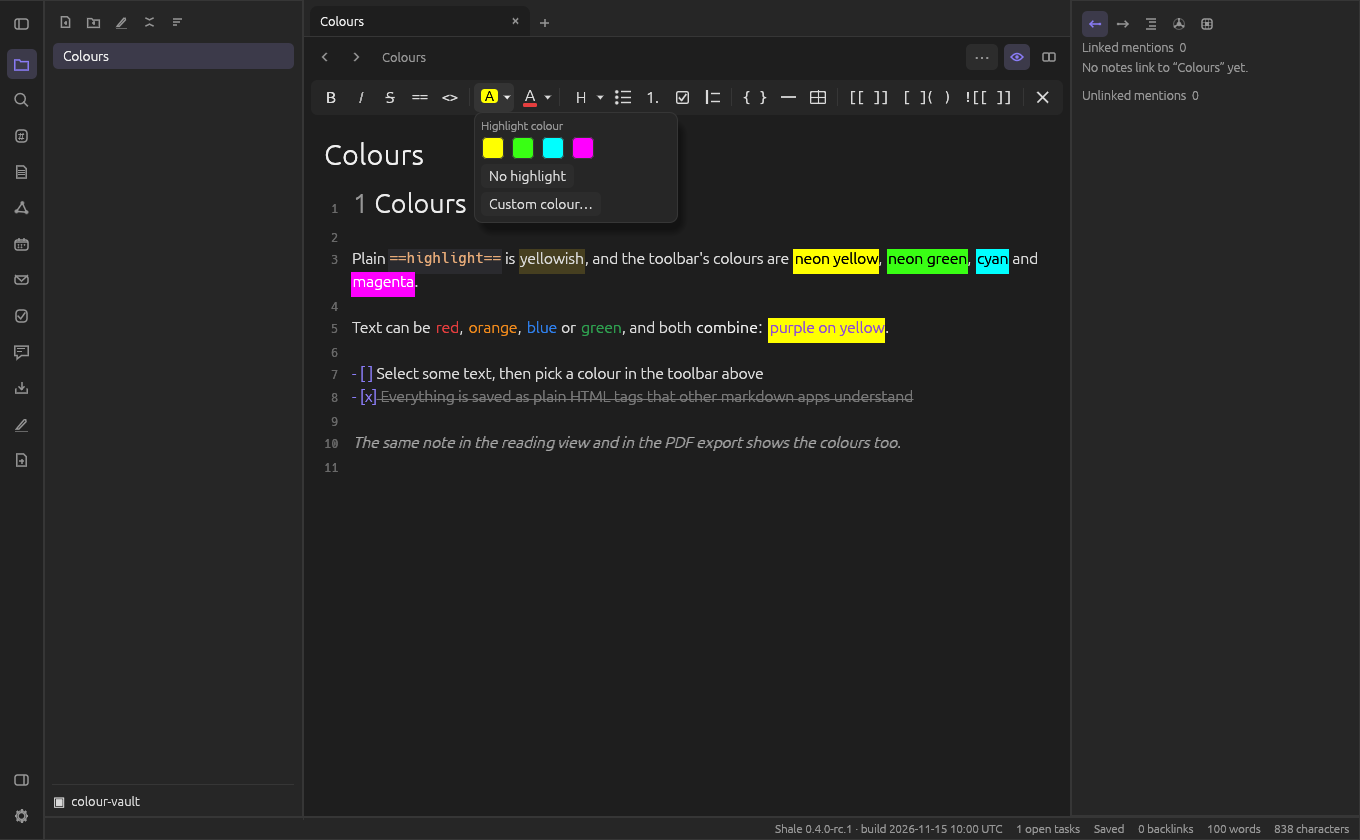
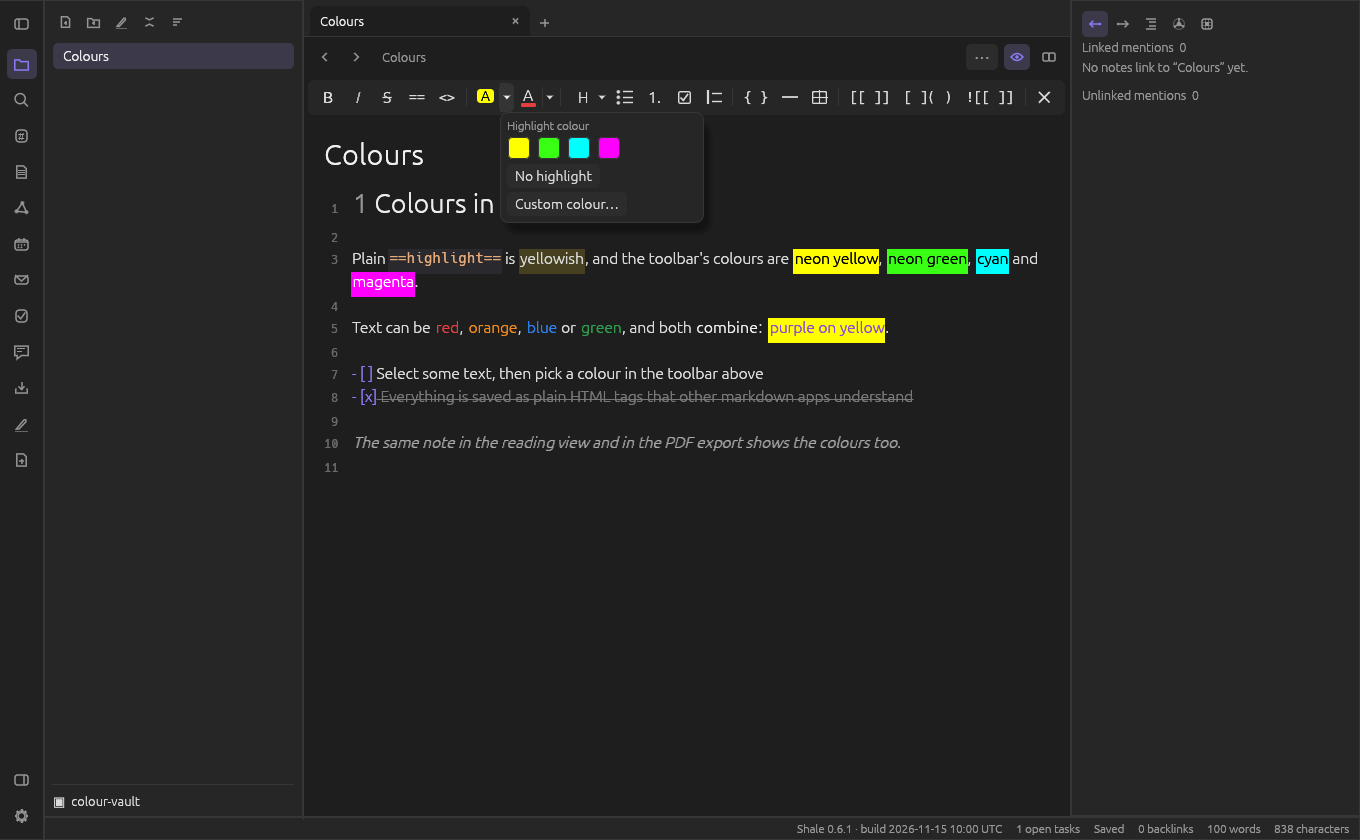
Colour buttons are split buttons: the main part applies the current colour, ▾ opens the palette (EDIT-054)
Closes #350

diff --git a/src/format_bar_ui_tests.rs b/src/format_bar_ui_tests.rs
@@ -87,8 +87,10 @@ fn the_toolbar_is_above_the_text_of_a_note_and_the_setting_and_the_reading_view_
         "Strikethrough: ~~text~~",
         "Highlight: ==text==",
         "Inline code: `code`",
-        "Highlight colour",
-        "Font colour",
+        "Highlight colour: #FFFF00",
+        "Highlight colours…",
+        "Font colour: #E53E3E",
+        "Font colours…",
         "Heading level",
         "Bullet list: - item",
         "Numbered list: 1. item",
@@ -118,7 +120,7 @@ fn the_toolbar_is_above_the_text_of_a_note_and_the_setting_and_the_reading_view_
     fx.app.cfg.format_toolbar = false;
     fx.hl.frames(&mut fx.app, 3);
     assert!(!fx.has("Bold: **text**"), "Show formatting toolbar off");
-    assert!(!fx.has("Highlight colour"));
+    assert!(!fx.has("Highlight colours…"));
 }
 
 // spec: EDIT-027
@@ -232,29 +234,29 @@ fn the_embed_button_opens_the_file_picker() {
 fn the_colour_palettes_write_canonical_tags_and_replace_the_colour_of_a_marked_text() {
     let mut fx = Fx::new("palette", "one two three\n");
     fx.select(4, 7);
-    fx.click("Highlight colour");
+    fx.click("Highlight colours…");
     fx.click("Highlight colour #39FF14");
     assert_eq!(fx.text(), "one <mark style=\"background: #39FF14;\">two</mark> three\n");
     assert_eq!(fx.selected(), "two");
     // another colour replaces it
-    fx.click("Highlight colour");
+    fx.click("Highlight colours…");
     fx.click("Highlight colour #FF00FF");
     assert_eq!(fx.text(), "one <mark style=\"background: #FF00FF;\">two</mark> three\n", "no nesting");
     // the font colour of the same text, from the presets of the settings
-    fx.click("Font colour");
+    fx.click("Font colours…");
     let first = crate::colour_tags::hex(fx.app.cfg.font_colours[0]);
     fx.click(&format!("Font colour {first}"));
     assert_eq!(fx.text(), format!("one <mark style=\"background: #FF00FF;\"><span style=\"color: {first};\">two</span></mark> three\n"), "the span goes inside the mark");
     // no highlight, and default colour
-    fx.click("Highlight colour");
+    fx.click("Highlight colours…");
     fx.click("No highlight");
     assert_eq!(fx.text(), format!("one <span style=\"color: {first};\">two</span> three\n"));
-    fx.click("Font colour");
+    fx.click("Font colours…");
     fx.click("Default colour");
     assert_eq!(fx.text(), "one two three\n");
     // a changed preset in the settings is what the palette offers
     fx.app.cfg.highlight_colours = vec![[1, 2, 3]];
-    fx.click("Highlight colour");
+    fx.click("Highlight colours…");
     fx.click("Highlight colour #010203");
     assert_eq!(fx.text(), "one <mark style=\"background: #010203;\">two</mark> three\n");
 }
@@ -264,18 +266,82 @@ fn the_colour_palettes_write_canonical_tags_and_replace_the_colour_of_a_marked_t
 fn a_custom_colour_from_the_picker_is_written_in_the_canonical_form() {
     let mut fx = Fx::new("custom", "one two three\n");
     fx.select(4, 7);
-    fx.click("Highlight colour");
+    fx.click("Highlight colours…");
     fx.click("Custom colour…");
     assert!(fx.has("Apply"), "the colour picker is open");
     fx.click("Apply");
     assert_eq!(fx.text(), "one <mark style=\"background: #FFA500;\">two</mark> three\n", "the picker's start colour, as #RRGGBB");
-    fx.click("Font colour");
+    fx.click("Font colours…");
     fx.click("Custom colour…");
     fx.click("Apply");
     assert_eq!(fx.text(), "one <mark style=\"background: #FFA500;\"><span style=\"color: #DC143C;\">two</span></mark> three\n");
     // Esc-free: the palette closed after the pick, and a click on the button opens it again
-    fx.click("Highlight colour");
+    fx.click("Highlight colours…");
     assert!(fx.has("No highlight"));
+}
+
+// spec: EDIT-054
+#[test]
+fn the_main_part_of_a_colour_button_applies_the_current_colour_as_one_undo_step() {
+    let mut fx = Fx::new("split-main", "one two three\n");
+    fx.select(4, 7);
+    fx.click("Highlight colour: #FFFF00");
+    assert_eq!(fx.text(), "one <mark style=\"background: #FFFF00;\">two</mark> three\n", "the colour at the start of the run");
+    assert!(!fx.has("No highlight"), "a click on the main part opens no palette");
+    let rel = PathBuf::from(NOTE);
+    let mut text = fx.text();
+    assert!(fx.app.undo.of(&rel).undo(&mut text).is_some());
+    assert_eq!(text, "one two three\n", "one undo step");
+    // a colour picked from the palette is the current colour, in the tooltip and for the main part
+    fx.click("Highlight colours…");
+    fx.click("Highlight colour #39FF14");
+    let at = fx.text().chars().count() - "three\n".len();
+    fx.select(at, at + 5);
+    assert!(fx.has("Highlight colour: #39FF14"));
+    fx.click("Highlight colour: #39FF14");
+    assert_eq!(fx.text(), "one <mark style=\"background: #39FF14;\">two</mark> <mark style=\"background: #39FF14;\">three</mark>\n");
+    // the font colour is the same
+    let at = fx.text().find("two").unwrap();
+    fx.select(at, at + 3);
+    fx.click("Font colour: #E53E3E");
+    assert!(fx.text().contains("<span style=\"color: #E53E3E;\">two</span>"), "{}", fx.text());
+}
+
+// spec: EDIT-054
+#[test]
+fn the_caret_part_of_a_colour_button_opens_the_palette_and_applies_nothing() {
+    let mut fx = Fx::new("split-caret", "one two three\n");
+    fx.select(4, 7);
+    fx.click("Font colours…");
+    assert!(fx.has("Default colour"), "the font palette is open");
+    assert_eq!(fx.text(), "one two three\n");
+}
+
+// spec: EDIT-054
+#[test]
+fn no_highlight_and_default_colour_leave_the_current_colour_as_it_was() {
+    let mut fx = Fx::new("split-none", "one two three\n");
+    fx.select(4, 7);
+    fx.click("Highlight colours…");
+    fx.click("Highlight colour #39FF14");
+    fx.click("Highlight colours…");
+    fx.click("No highlight");
+    assert_eq!(fx.text(), "one two three\n");
+    assert!(fx.has("Highlight colour: #39FF14"), "still the current colour");
+    fx.click("Font colours…");
+    fx.click("Default colour");
+    assert!(fx.has("Font colour: #E53E3E"));
+}
+
+// spec: EDIT-054, EDIT-030
+#[test]
+fn in_a_cell_the_main_part_of_a_colour_button_colours_the_cell_text() {
+    let mut fx = Fx::table("split-cell");
+    fx.edit_cell("one two");
+    fx.select_in_cell(4, 7);
+    fx.click("Font colour: #E53E3E");
+    assert_eq!(fx.text(), "before\n\n| A | B |\n|---|---|\n| one <span style=\"color: #E53E3E;\">two</span> | x |\n");
+    assert_eq!(fx.editor().editing_cell(), Some((1, 0)), "the cell is still edited");
 }
 
 /// The Bold and the Clear button of the toolbar drawn alone in a window `width` wide (a few frames,

diff --git a/src/format_bar.rs b/src/format_bar.rs
@@ -118,12 +118,17 @@ fn rgb(c: [u8; 3]) -> Color32 {
 /// colour that goes with the state. Its tooltip is also its accessibility label (and the hint of scripts).
 /// `width` and everything `draw` paints are at scale 1; the button and the drawing are `s` times as big.
 fn tool(ui: &mut Ui, s: f32, width: f32, on: bool, enabled: bool, tip: &str, draw: impl FnOnce(&egui::Painter, Rect, Color32, f32)) -> Response {
+    tool_part(ui, (s, width), CornerRadius::same(5), on, enabled, tip, draw)
+}
+
+/// `tool` with the rounding of the background given: the two parts of a split button are round on their outer corners only.
+fn tool_part(ui: &mut Ui, (s, width): (f32, f32), round: CornerRadius, on: bool, enabled: bool, tip: &str, draw: impl FnOnce(&egui::Painter, Rect, Color32, f32)) -> Response {
     let (r, resp) = ui.allocate_exact_size(Vec2::new(width, BUTTON) * s, if enabled { Sense::click() } else { Sense::hover() });
     let hovered = enabled && resp.hovered();
     if on {
-        ui.painter().rect_filled(r, CornerRadius::same(5), theme::BG_ACTIVE);
+        ui.painter().rect_filled(r, round, theme::BG_ACTIVE);
     } else if hovered {
-        ui.painter().rect_filled(r, CornerRadius::same(5), theme::BG_HOVER);
+        ui.painter().rect_filled(r, round, theme::BG_HOVER);
     }
     let c = if !enabled {
         theme::FAINT
@@ -296,13 +301,18 @@ impl FormatBar {
         (resp.response.rect.size(), out)
     }
 
-    /// One of the two colour buttons (0: highlight, 1: font colour) with its palette popup.
+    /// One of the two colour buttons (0: highlight, 1: font colour), a split button (EDIT-054): the main part
+    /// applies the current colour, the ▾ part toggles the palette popup.
     fn palette(&mut self, ui: &mut Ui, which: usize, palettes: &Palettes, open_now: bool) -> Option<Cmd> {
         let mark = which == 0;
         let (tip, none_label) = if mark { ("Highlight colour", "No highlight") } else { ("Font colour", "Default colour") };
         let last = if mark { self.last_mark } else { self.last_font };
-        let resp = tool(ui, palettes.scale, BUTTON + 10.0, false, true, tip, |p, r, c, s| {
-            let g = Rect::from_center_size(r.center() + Vec2::new(-4.0, -1.0) * s, Vec2::splat(15.0 * s));
+        let sc = palettes.scale;
+        let main_tip = format!("{tip}: {}", crate::colour_tags::hex(last));
+        // the two parts of the split button sit side by side without a gap, with a divider between them
+        let gap = std::mem::replace(&mut ui.spacing_mut().item_spacing.x, 0.0);
+        let main = tool_part(ui, (sc, BUTTON), CornerRadius { nw: 5, sw: 5, ne: 0, se: 0 }, false, true, &main_tip, |p, r, c, s| {
+            let g = Rect::from_center_size(r.center() + Vec2::new(0.0, -1.0) * s, Vec2::splat(15.0 * s));
             if mark {
                 p.rect_filled(g.shrink2(Vec2::new(0.0, s)), 3.0 * s, rgb(last));
                 let t = text_galley(p, "A", Label { bold: true, ..Default::default() }, 12.5 * s, if colour_dark(last) { Color32::BLACK } else { Color32::WHITE });
@@ -312,9 +322,13 @@ impl FormatBar {
                 p.galley(g.center() - t.size() / 2.0 - Vec2::new(0.0, 1.5 * s), t, c);
                 p.rect_filled(Rect::from_min_size(Pos2::new(g.left() + s, g.bottom() - s), Vec2::new(g.width() - 2.0 * s, 3.0 * s)), s, rgb(last));
             }
-            caret(p, Pos2::new(r.right() - 6.0 * s, r.center().y), c, s);
         });
-        palettes.badges.paint(ui, resp.rect, if mark { Action::NoteHighlightColour } else { Action::NoteFontColour });
+        let menu_tip = format!("{tip}s…");
+        let resp = tool_part(ui, (sc, 13.0), CornerRadius { nw: 0, sw: 0, ne: 5, se: 5 }, false, true, &menu_tip, |p, r, c, s| caret(p, r.center(), c, s));
+        ui.spacing_mut().item_spacing.x = gap;
+        let (m, r) = (main.rect, resp.rect);
+        ui.painter().line_segment([Pos2::new(r.left(), r.top() + 4.0 * sc), Pos2::new(r.left(), r.bottom() - 4.0 * sc)], Stroke::new(1.0, theme::BORDER));
+        palettes.badges.paint(ui, m.union(r), if mark { Action::NoteHighlightColour } else { Action::NoteFontColour });
         if open_now {
             egui::Popup::toggle_id(ui.ctx(), egui::Popup::default_response_id(&resp));
         }
@@ -355,6 +369,9 @@ impl FormatBar {
                 ui.close();
             }
         });
+        if main.clicked() {
+            return Some(if mark { Cmd::HighlightColour(Some(last)) } else { Cmd::FontColour(Some(last)) });
+        }
         let colour = pick?;
         if let Some(c) = colour {
             *(if mark { &mut self.last_mark } else { &mut self.last_font }) = c;

diff --git a/docs/spec/links-and-editor.md b/docs/spec/links-and-editor.md
@@ -65,6 +65,7 @@ Tests are named `file.rs::test_fn` (all under `src/`).
 | EDIT-026 | **Formatting toolbar** (raba/shale#225): above the text of a note in the editor (not in the reading view, not in drawings) a row of icon buttons with tooltips (and the shortcut where there is one): bold `**`, italic `*`, strikethrough `~~`, highlight `==`, inline code, a heading menu (Normal text, H1 to H6), bullet list, numbered list, task `- [ ]`, quote `>`, code block, horizontal rule, wiki link `[[ ]]`, web link `[text](url)`, embed `![[ ]]` (it starts the `[!` file picker), a table (2 columns, 2 rows below the header), highlight colour and font colour (EDIT-028), clear formatting. The bar is centred over the editor (as much space left as right of it); a window too narrow for one row wraps the buttons into more rows, and those start at the left. The setting **Show formatting toolbar** (Settings, Editing; `format_toolbar`, on by default) turns it off. The setting **Toolbar button size** below it (`toolbar_size`, in percent, 80 to 200 in steps of 10, default 110; a value out of range in the config is clamped) scales the buttons, their icons and texts, and the spaces between groups. It works with the markdown preview on and off. | IS NOW | `format_bar.rs`, `config.rs` (`format_toolbar`, `toolbar_size`), `layout.rs` (`note_view`), `panels.rs` (Settings, Editing) | `format_bar_ui_tests.rs::the_toolbar_is_above_the_text_of_a_note_and_the_setting_and_the_reading_view_hide_it`, `format_bar_ui_tests.rs::the_toolbar_is_centred_over_the_editor_and_a_wrapping_one_starts_at_the_left`, `format_bar_ui_tests.rs::the_toolbar_button_size_setting_scales_the_buttons`, `format_bar_ui_tests.rs::the_app_draws_the_toolbar_at_the_size_of_the_setting`, `format_bar_ui_tests.rs::the_buttons_work_with_the_markdown_preview_on`, `panels_ui_tests.rs::the_editing_settings_switch_the_toolbar_and_edit_the_colour_presets`, `config.rs::the_toolbar_settings_have_defaults_and_round_trip_without_a_version_bump`, `config.rs::old_config_files_still_load` |
 | EDIT-027 | **Toolbar commands** (raba/shale#225) are plain text transforms (`format.rs`). An inline button wraps the selection in its markers, or takes them off again when the selection is already wrapped (the markers inside or just around it); with no selection it inserts the marker pair and puts the cursor between, and on a pair with nothing between it takes the pair off. A line button (heading, bullet, numbered, task, quote) applies to every line the selection touches and toggles off when all of them have it; a heading replaces another level or list marker, indentation stays, lines in fenced code are left alone. Code block wraps the selected lines in a fence (or puts an empty fence around the cursor), rule inserts `---` on a line of its own, web link wraps the selection as `[text](url)` and selects `url`, wiki link wraps it as `[[text]]`, table inserts a GFM table (2 columns, 2 rows below the header) with the first header cell selected, clear formatting removes the inline markers and colour tags inside the selection and the heading, list and quote markers of its lines. Each click is one undo step (EDIT-021) and gives the keyboard back to the editor with the result selected; with vim-lite on the editor ends in a mode that takes keys (insert mode stays, otherwise normal). | IS NOW In a table (EDIT-024) an inline command works cell by cell: the markers go round the selected part of each cell, never across a `|`, and the delimiter row is left alone (raba/shale#234). While a table cell is edited in the grid the inline commands work on the cell's text (EDIT-030, raba/shale#237). | `format.rs`, `format_bar.rs`, `editor.rs` (`NoteEditor::apply_format`, `selection_bytes`) | `format.rs::inline_buttons_wrap_the_selection_and_unwrap_it_again`, `format.rs::with_no_selection_the_markers_go_in_with_the_cursor_between_and_come_out_when_empty`, `format.rs::bold_and_italic_do_not_take_each_other_apart`, `format.rs::a_selection_over_several_lines_is_wrapped_line_by_line_without_the_list_markers`, `format.rs::heading_buttons_set_replace_and_toggle_off`, `format.rs::list_buttons_apply_to_every_line_touched_and_toggle_off`, `format.rs::a_selection_ending_at_the_start_of_a_line_does_not_touch_that_line`, `format.rs::quote_adds_a_level_to_lines_without_one_and_takes_the_outer_level_off`, `format.rs::lines_in_fenced_code_are_left_alone_by_the_line_buttons`, `format.rs::code_block_fences_the_lines_and_toggles`, `format.rs::rule_and_table_are_blocks_of_their_own_after_the_line`, `format.rs::links_wrap_the_selection_and_the_embed_starts_the_file_picker`, `format.rs::clear_formatting_removes_markers_colours_and_the_line_markers`, `format.rs::is_on_tells_what_is_applied_at_the_cursor`, `format.rs::odd_selections_never_panic_or_split_a_character`, `format_bar_ui_tests.rs::a_click_wraps_the_selection_is_one_undo_step_and_gives_the_keyboard_back`, `format_bar_ui_tests.rs::line_buttons_and_the_heading_menu_work_on_the_lines_of_the_selection`, `format_bar_ui_tests.rs::with_vim_lite_on_a_click_leaves_the_editor_in_a_mode_that_takes_keys`, `format_bar_ui_tests.rs::the_embed_button_opens_the_file_picker`, `format.rs::in_a_table_the_markers_go_round_each_cell_and_never_across_a_pipe` |
 | EDIT-028 | **Coloured highlight and font colour** (raba/shale#226) are stored as portable inline HTML, the convention of Obsidian's colour plugins: `<mark style="background: #FFFF00;">text</mark>` and `<span style="color: #RRGGBB;">text</span>`; `==text==` stays the plain highlight. Reading accepts `background` or `background-color` (mark) and `color` (span), `#RGB`, `#RRGGBB` and `#RRGGBBAA`, single or double quotes, extra spaces, a missing `;`, any case; writing is always the canonical form (upper-case `#RRGGBB`). Tags in inline code and tags without a matching closing tag are plain text (and a colour in a tag is no `#tag`). The toolbar's highlight button opens a palette: four presets (neon yellow `#FFFF00`, green `#39FF14`, cyan `#00FFFF`, magenta `#FF00FF`), "No highlight" (removes the mark and the `==` around the selection) and a colour picker for any other colour; the font colour button the same with the presets of the setting **Font colours** (Settings, Editing; `font_colours`, default red, orange, blue, green, purple; each swatch is a colour picker), "Default colour" and a picker. A colour on text that is already inside a tag of its kind replaces that tag's colour instead of nesting. | IS NOW | `colour_tags.rs`, `format.rs`, `format_bar.rs`, `config.rs` (`font_colours`, `highlight_colours`), `markdown::find_tags` | `colour_tags.rs::the_canonical_tags_are_written_in_upper_case_hex`, `colour_tags.rs::hex_colours_come_in_three_six_and_eight_digits`, `colour_tags.rs::tolerant_variants_are_read`, `colour_tags.rs::a_span_takes_color_but_no_background_and_a_mark_the_other_way_round`, `colour_tags.rs::nesting_and_mixing_find_each_tag_pair`, `colour_tags.rs::garbled_unclosed_and_code_tags_are_plain_text`, `format.rs::a_highlight_colour_wraps_in_a_mark_and_a_font_colour_in_a_span`, `format.rs::a_colour_on_coloured_text_replaces_the_colour_instead_of_nesting`, `format.rs::no_highlight_takes_off_the_mark_and_the_plain_highlight`, `format.rs::mark_and_span_nest_properly_and_never_cross`, `format_bar_ui_tests.rs::the_colour_palettes_write_canonical_tags_and_replace_the_colour_of_a_marked_text`, `markdown.rs::the_colour_in_a_mark_or_span_tag_is_no_hashtag`, `config.rs::the_toolbar_settings_have_defaults_and_round_trip_without_a_version_bump`, `panels_ui_tests.rs::the_editing_settings_switch_the_toolbar_and_edit_the_colour_presets` |
+| EDIT-054 | **Colour split buttons** (raba/shale#350): each of the two colour buttons of the toolbar (EDIT-028) is a split button. Its main part shows the current colour (the last one picked from its palette in this run of the app; at start neon yellow `#FFFF00` for the highlight, red `#E53E3E` for the font colour) and a click on it applies that colour at once, as a pick from the palette does (tooltip "Highlight colour: #FFFF00" / "Font colour: #E53E3E"). A narrow part right of it with a small ▾ caret (tooltip "Highlight colours…" / "Font colours…") opens the palette of EDIT-028; a colour picked there (a preset, or Custom colour and Apply) is applied and becomes the current colour; "No highlight" / "Default colour" take the colour off and leave the current colour as it was. Both parts work in a table cell like the other inline buttons (EDIT-030). The Alt key of the button (KEY-015) opens the palette. | IS NOW | `format_bar.rs` (`FormatBar::palette`) | `format_bar_ui_tests.rs::the_main_part_of_a_colour_button_applies_the_current_colour_as_one_undo_step`, `format_bar_ui_tests.rs::the_caret_part_of_a_colour_button_opens_the_palette_and_applies_nothing`, `format_bar_ui_tests.rs::no_highlight_and_default_colour_leave_the_current_colour_as_it_was`, `format_bar_ui_tests.rs::in_a_cell_the_main_part_of_a_colour_button_colours_the_cell_text` |
 | EDIT-029 | **Colours are drawn everywhere** (raba/shale#226): the editor draws the text inside a mark with its background colour and the text inside a span in its colour, the tags dimmed like other markup, and the markdown preview (EDIT-016) hides them on lines that are not raw; the reading view, table cells (EDIT-024) and the PDF export (PDF-006) show the colours with the tags hidden. They nest with each other and with bold, italic, strikethrough and code. Text on a highlight is black or white by the highlight's brightness unless a font colour is set. | IS NOW | `editor.rs` (`colour_pairs`, `to_format`), `reader.rs` (`inline_painted`), `table.rs`, `pdf/export.rs` (`Writer::pieces`) | `editor.rs::marks_and_spans_colour_the_text_between_their_dimmed_tags`, `editor.rs::colours_nest_with_bold_and_italic_and_garbled_tags_are_plain_text`, `editor.rs::the_preview_hides_the_colour_tags_away_from_the_cursor_and_shows_them_raw_at_it`, `reader.rs::the_reading_view_colours_the_text_and_hides_the_tags`, `table.rs::a_cell_shows_colours_without_their_tags`, `colour_tags.rs::text_on_a_highlight_is_dark_on_bright_and_light_on_dark_backgrounds`, `pdf/export.rs::colours_are_printed_as_a_filled_rectangle_and_a_text_colour_without_their_tags` |
 | EDIT-030 | **Editing cells in the grid** (raba/shale#234). Where a table is drawn as a grid in the editor (EDIT-024) it is in one of two modes: **cells** (a click on a cell edits that cell in place, the table stays a grid) or **raw** (a click puts the cursor into the text and the table shows its markdown, as in EDIT-024). The global setting Settings → Appearance "Edit table cells in the grid" (`table_cell_edit` in the config, on by default) gives the mode of every table; a button at the top left above the hovered grid switches that one table (tooltip "Edit the cells in the grid" / "Edit the table as raw markdown") and stores the choice with the table. In a cell the cell's own markdown is edited in a box over the cell, in the cell's font, wrapping in the column's width and growing down over the rows below when it needs the room (the rest of the grid stays drawn); every change goes into the note at once (`\|` written for a typed pipe outside code spans, line breaks become spaces, the other cells and lines stay as written, a short row is filled up). Tab / Shift+Tab go to the next / previous cell (row by row), Enter / Shift+Enter to the cell below / above; the arrow keys (without modifiers, no text selected) move inside the cell's text and leave it at its edge (raba/shale#235): Right at the end of the text to the start of the next cell, Left at its start to the end of the previous one (both rolling over to the next / previous row), Up on the first line of the text to the cell above and Down on its last line to the cell below (the cursor at the end of their text); at the edges of the table they stay in the cell. Esc leaves and gives the keyboard back to the note, a click elsewhere leaves too; leaving past the first or last cell ends the editing. Everything typed from the click to leaving is one step of the note's undo history (EDIT-021) and of the text box's Ctrl+Z. **Formatting toolbar** (raba/shale#237): while a cell is edited the toolbar (EDIT-026) works on the cell, not on the note: an inline button (bold, italic, strikethrough, highlight, code, wiki link, web link, the two colours, clear formatting) does to the cell's text and selection (or cursor) what EDIT-027 does to the note's, the result stays selected, the cell keeps the keyboard and the editing, the change goes into the note at once like typing and so is part of the editing's one undo step; the buttons show what is "on" at the cell's selection. The line commands (heading menu, bullet, numbered, task, quote, code block, rule, table) and the embed make no sense in a cell: they are greyed out and do nothing while a cell is edited. With no cell edited the toolbar works on the note as before. **Selecting several cells** (raba/shale#243): Shift+arrow selects a rectangular block of cells, starting from the cell being edited (the anchor) and moving the block's corner one cell per key press, so Shift+Right then Shift+Up from a cell gives a block of 2 by 2; the block spans rows and columns, never leaves the table and shrinks back with the opposite arrow, down to the anchor cell alone, which is then edited as before. Inside a cell the Shift+arrow keys select text first, as in any text box; the cells are selected only when the moving end of the text selection is at the edge of the text in that direction (Right at the end, Left at the start, Up on the first line, Down on the last line, as for the plain arrows above), and the cell's text selection is dropped then. Every cell of the block is drawn as selected (the accent colour as a tint over the cell, an accent outline round the block) and the cell's own box is not shown. The toolbar's inline buttons then format every selected cell as a whole (a cell with no text is skipped; when some cells already have the format it is added to the others, when all have it it is taken off all), the line buttons stay greyed out; Delete and Backspace clear the text of all selected cells; both are part of the editing's one undo step (a toolbar click or a key press makes no step of its own). Typed (or pasted) text ends the block: the cell at its top left is edited, the text goes to the end of its text and into no other cell. A plain arrow key ends the block too and moves one cell on from the anchor cell, as for one cell (Right to the start of the next cell, Left to the end of the previous one, Up and Down to the end of the cell above and below; at the edge of the table the anchor is edited), Tab, Shift+Tab, Enter and Shift+Enter go on from the anchor as well, Esc ends the block and keeps the anchor cell edited (a second Esc leaves), a click on a cell edits that cell and a click elsewhere leaves the editing. **Per-table data** (the mode and the sizes of EDIT-031) is an HTML comment line directly above the table, `<!-- shale-table edit=cells cols=120,80 rows=30,30 -->` (`edit=cells` or `edit=raw`, sizes in points; unknown words are ignored, a table without one follows the setting). The line belongs to the table: it is hidden under the grid, not shown in the reading view or the PDF (but printed by Export plain text), and is removed when nothing is left in it. | IS NOW | `table.rs` (`Meta`, `Change`, `change_block`, `set_cell`), `table_grid.rs`, `table_select.rs`, `editor.rs`, `config.rs`, `panels.rs`, `format_bar.rs`, `format.rs` (`works_in_a_cell`) | `format_bar_ui_tests.rs::in_a_cell_the_inline_buttons_format_the_cell_selection_and_the_cursor_and_undo_takes_it_back_with_the_edit`, `format_bar_ui_tests.rs::while_a_cell_is_edited_the_line_buttons_are_greyed_out_and_do_nothing`, `format_bar_ui_tests.rs::with_no_cell_edited_the_toolbar_acts_on_the_note_text_even_in_a_note_with_a_table`, `format_bar_ui_tests.rs::shift_arrows_extend_a_block_of_cells_across_rows_and_columns_and_shrink_it_again`, `format_bar_ui_tests.rs::shift_arrows_select_text_in_the_cell_first_and_extend_to_cells_at_its_edge`, `format_bar_ui_tests.rs::a_toolbar_button_formats_every_cell_of_the_block_as_one_undo_step`, `format_bar_ui_tests.rs::formatting_a_block_where_some_cells_have_it_adds_it_to_the_others`, `format_bar_ui_tests.rs::delete_and_backspace_clear_every_cell_of_the_block_as_one_undo_step`, `format_bar_ui_tests.rs::typing_ends_the_block_and_goes_only_into_its_top_left_cell`, `format_bar_ui_tests.rs::a_plain_arrow_key_esc_and_a_click_end_the_block`, `table_select.rs::the_corner_moves_one_cell_and_stops_at_the_edges_of_the_table`, `table_select.rs::a_block_goes_back_to_one_cell_and_lists_its_cells_row_by_row`, `format.rs::only_the_inline_commands_work_in_a_table_cell`, `table.rs::the_comment_line_above_a_table_is_read_written_and_belongs_to_it`, `table.rs::a_cell_is_written_with_its_pipes_escaped_and_the_rest_as_it_was`, `table.rs::changes_rewrite_the_comment_line_and_keep_the_sizes_with_their_columns`, `table_grid.rs::the_text_of_a_cell_comes_from_the_header_or_its_row`, `editor.rs::a_click_on_a_cell_edits_it_in_the_grid_and_the_keys_move_between_cells`, `editor.rs::the_editing_ends_past_the_last_cell_and_with_a_click_elsewhere_and_ctrl_z_takes_it_back`, `editor.rs::the_arrow_keys_move_inside_a_cell_and_leave_it_at_the_edge_of_its_text`, `editor.rs::up_and_down_move_between_the_lines_of_a_wrapped_cell_first`, `editor.rs::the_setting_and_the_button_of_a_table_choose_between_cells_and_raw`, `reader.rs::the_reading_view_draws_a_table_as_a_grid_and_its_links_work`, `pdf/export.rs::a_table_is_a_grid_in_the_pdf_and_plain_text_lines_when_asked`, `config.rs::old_config_files_still_load` |
 | EDIT-031 | **Resizing a grid** (raba/shale#234), in both modes of EDIT-030: dragging the border between two columns makes the column left of it wider or narrower, dragging the border under a row (not the last) makes that row taller or shorter; dragging the right edge, the bottom edge or the bottom right corner of the grid resizes the whole table, all columns (rows) in proportion. The pointer shows a resize cursor over a border. A double click on a column border (or the right edge) gives all columns the same share of the table's current width, on a row border (or the bottom edge) all rows the same share of its current height. A column is never narrower than 24 points; a row is never shorter than its text (a row height is a minimum); when the stored widths do not fit the editor they are scaled down together. The sizes are stored when the button is released (one undo step) in the table's comment line (EDIT-030) and used by the editor's grid and the reading view; adding or deleting a column or row through the buttons (EDIT-025) adds or removes its size. A table whose stored sizes do not match its columns or rows ignores them. The **PDF export** (PDF-001, raba/shale#238) uses them too: the stored widths are scaled as in the grid (`table::stored_widths`: every column at least `MIN_COL`, kept as stored when they fit the page's text width, else scaled down together), so a narrow table stays narrow, and a stored row height is the least height of that row; sizes that do not match the table's columns (rows) or are no positive numbers are ignored and the widths come from `column_widths` as before. | IS NOW | `table.rs` (`layout`, `Sizes`), `table_grid.rs` | `table_grid.rs::a_border_resizes_its_column_or_row_and_the_edges_the_whole_table`, `table_grid.rs::a_double_click_shares_the_width_or_the_height_equally`, `table.rs::stored_sizes_set_the_columns_and_the_least_row_heights`, `table.rs::changes_rewrite_the_comment_line_and_keep_the_sizes_with_their_columns`, `editor.rs::dragging_a_border_resizes_and_a_double_click_shares_the_room_equally`, `editor.rs::the_buttons_keep_the_sizes_with_their_columns_and_rows`, `pdf/export.rs::stored_column_widths_and_row_heights_shape_the_pdf_table`, `table.rs::stored_widths_fit_scale_down_clamp_and_are_checked`, `reader.rs::the_reading_view_draws_a_table_as_a_grid_and_its_links_work` |

diff --git a/docs/FEATURES.md b/docs/FEATURES.md
@@ -41,7 +41,8 @@ again from the recipes in `docs/screenshots/recipes.conf`; the pictures live in 
   and the ribbon has an Alt key (Alt+B bold, Alt+V reading view, Alt+1 … Alt+0 ribbon items, Alt+, and Alt+.
   sidebars, see Keyboard below), shown as a badge at the button while Alt is held; after a button or key that
   only changes the view, the editor has the keyboard again with the cursor and selection unchanged.
-- **Colours.** The toolbar's highlight and font colour buttons open a palette (four neon highlights, a
+- **Colours.** The toolbar's highlight and font colour buttons are split buttons: a click on the colour applies the
+  current colour at once, the ▾ beside it opens a palette (four neon highlights, a
   "No highlight" entry and a colour picker; font colours you set in Settings → Editor) and write plain
   HTML that other markdown apps understand: `<mark style="background: #FFFF00;">text</mark>` and
   `<span style="color: #E53E3E;">text</span>`. They show in the editor (the tags dimmed, or hidden by
@@ -907,7 +908,7 @@ Text editing keys and vim keys are fixed.
 | ↓ or Enter in the search box | Browse the results: j / k (or ↓ / ↑) next / previous hit, Ctrl+J / Ctrl+K next / previous file, Enter opens the note at the hit, Esc back to the box |
 | Ctrl+Shift+M | Mail view (its keys are listed below) |
 | Alt+← / Alt+→ | Back / forward |
-| Alt+B, Alt+I, Alt+S, Alt+H, Alt+C, Alt+Y, Alt+F, Alt+E, Alt+U, Alt+O, Alt+T, Alt+Q, Alt+K, Alt+R, Alt+A, Alt+L, Alt+W, Alt+M, Alt+X | The buttons of the formatting toolbar of a note, each doing what a click on it does (the keyboard stays in the text and nothing is typed): Bold, Italic, Strikethrough, Highlight, Inline code, Highlight colour and Font colour (open their palette), Heading level (opens its menu), Bullet list, Numbered list, Task, Quote, Code block, Horizontal rule, Table, Link to a note, Web link, Embed, Clear formatting. A key whose button is not there (reading view) or is greyed out (in a table cell) does nothing |
+| Alt+B, Alt+I, Alt+S, Alt+H, Alt+C, Alt+Y, Alt+F, Alt+E, Alt+U, Alt+O, Alt+T, Alt+Q, Alt+K, Alt+R, Alt+A, Alt+L, Alt+W, Alt+M, Alt+X | The buttons of the formatting toolbar of a note, each doing what a click on it does (the keyboard stays in the text and nothing is typed): Bold, Italic, Strikethrough, Highlight, Inline code, Highlight colour and Font colour (open their palette, the ▾ part of the split button), Heading level (opens its menu), Bullet list, Numbered list, Task, Quote, Code block, Horizontal rule, Table, Link to a note, Web link, Embed, Clear formatting. A key whose button is not there (reading view) or is greyed out (in a table cell) does nothing |
 | Alt+V, Alt+P, Alt+D, Alt+N | The buttons of the view header and tab bar of a note: edit / reading view, Markdown preview, the ⋯ menu (opens it), New tab |
 | Alt+1, Alt+2, Alt+3, Alt+4, Alt+5, Alt+6, Alt+7, Alt+8, Alt+9, Alt+0 | The ribbon items by position: the first ten icons of the ribbon, as shown (also after you reordered or removed some) |
 | Alt+, / Alt+. | Show or hide the left / right sidebar |

diff --git a/docs/userguide/Keyboard shortcuts.md b/docs/userguide/Keyboard shortcuts.md
@@ -30,7 +30,7 @@ Text editing keys and vim keys are fixed.
 | ↓ or Enter in the search box | Browse the results: j / k (or ↓ / ↑) next / previous hit, Ctrl+J / Ctrl+K next / previous file, Enter opens the note at the hit, Esc back to the box |
 | Ctrl+Shift+M | Mail view (its keys are listed below) |
 | Alt+← / Alt+→ | Back / forward |
-| Alt+B, Alt+I, Alt+S, Alt+H, Alt+C, Alt+Y, Alt+F, Alt+E, Alt+U, Alt+O, Alt+T, Alt+Q, Alt+K, Alt+R, Alt+A, Alt+L, Alt+W, Alt+M, Alt+X | The buttons of the formatting toolbar of a note, each doing what a click on it does (the keyboard stays in the text and nothing is typed): Bold, Italic, Strikethrough, Highlight, Inline code, Highlight colour and Font colour (open their palette), Heading level (opens its menu), Bullet list, Numbered list, Task, Quote, Code block, Horizontal rule, Table, Link to a note, Web link, Embed, Clear formatting. A key whose button is not there (reading view) or is greyed out (in a table cell) does nothing |
+| Alt+B, Alt+I, Alt+S, Alt+H, Alt+C, Alt+Y, Alt+F, Alt+E, Alt+U, Alt+O, Alt+T, Alt+Q, Alt+K, Alt+R, Alt+A, Alt+L, Alt+W, Alt+M, Alt+X | The buttons of the formatting toolbar of a note, each doing what a click on it does (the keyboard stays in the text and nothing is typed): Bold, Italic, Strikethrough, Highlight, Inline code, Highlight colour and Font colour (open their palette, the ▾ part of the split button), Heading level (opens its menu), Bullet list, Numbered list, Task, Quote, Code block, Horizontal rule, Table, Link to a note, Web link, Embed, Clear formatting. A key whose button is not there (reading view) or is greyed out (in a table cell) does nothing |
 | Alt+V, Alt+P, Alt+D, Alt+N | The buttons of the view header and tab bar of a note: edit / reading view, Markdown preview, the ⋯ menu (opens it), New tab |
 | Alt+1, Alt+2, Alt+3, Alt+4, Alt+5, Alt+6, Alt+7, Alt+8, Alt+9, Alt+0 | The ribbon items by position: the first ten icons of the ribbon, as shown (also after you reordered or removed some) |
 | Alt+, / Alt+. | Show or hide the left / right sidebar |

diff --git a/README.md b/README.md
@@ -282,7 +282,7 @@ Text editing keys and vim keys are fixed.
 | Drag a tab | Reorder tabs; a marker shows where it lands |
 | Right-click a tab | Pin tab / Unpin tab (pinned tabs sit at the left with a pin and keep their place between starts); Open in split right |
 | Alt+← / Alt+→ | Back / forward |
-| Alt+B, Alt+I, Alt+S, Alt+H, Alt+C, Alt+Y, Alt+F, Alt+E, Alt+U, Alt+O, Alt+T, Alt+Q, Alt+K, Alt+R, Alt+A, Alt+L, Alt+W, Alt+M, Alt+X | The buttons of the formatting toolbar of a note, each doing what a click on it does (the keyboard stays in the text and nothing is typed): Bold, Italic, Strikethrough, Highlight, Inline code, Highlight colour and Font colour (open their palette), Heading level (opens its menu), Bullet list, Numbered list, Task, Quote, Code block, Horizontal rule, Table, Link to a note, Web link, Embed, Clear formatting. A key whose button is not there (reading view) or is greyed out (in a table cell) does nothing |
+| Alt+B, Alt+I, Alt+S, Alt+H, Alt+C, Alt+Y, Alt+F, Alt+E, Alt+U, Alt+O, Alt+T, Alt+Q, Alt+K, Alt+R, Alt+A, Alt+L, Alt+W, Alt+M, Alt+X | The buttons of the formatting toolbar of a note, each doing what a click on it does (the keyboard stays in the text and nothing is typed): Bold, Italic, Strikethrough, Highlight, Inline code, Highlight colour and Font colour (open their palette, the ▾ part of the split button), Heading level (opens its menu), Bullet list, Numbered list, Task, Quote, Code block, Horizontal rule, Table, Link to a note, Web link, Embed, Clear formatting. A key whose button is not there (reading view) or is greyed out (in a table cell) does nothing |
 | Alt+V, Alt+P, Alt+D, Alt+N | The buttons of the view header and tab bar of a note: edit / reading view, Markdown preview, the ⋯ menu (opens it), New tab |
 | Alt+1, Alt+2, Alt+3, Alt+4, Alt+5, Alt+6, Alt+7, Alt+8, Alt+9, Alt+0 | The ribbon items by position: the first ten icons of the ribbon, as shown (also after you reordered or removed some) |
 | Alt+, / Alt+. | Show or hide the left / right sidebar |

diff --git a/docs/userguide/Editor.md b/docs/userguide/Editor.md
@@ -34,7 +34,7 @@ the text unchanged. Text without headings, or with a `#`, is pasted at once.
 
 A row of buttons centred above the text of a note (not in the reading view): **B**old, *I*talic,
 ~~S~~trikethrough, `==` highlight, `<>` inline code; the highlight colour and font colour
-palettes; a **H** menu for headings (Normal text, Heading 1 to 6); bullet list, numbered list,
+split buttons (apply the current colour, ▾ for the palette); a **H** menu for headings (Normal text, Heading 1 to 6); bullet list, numbered list,
 task, quote; code block, horizontal rule, table; `[[ ]]` note link, `[ ]( )` web link, `![[ ]]`
 embed (it opens the `[!` file picker of [[Notes and links]]); and "Clear formatting".
 
@@ -55,8 +55,12 @@ embed (it opens the `[!` file picker of [[Notes and links]]); and "Clear formatt
 
 ## Colours
 
-The **highlight colour** button opens a palette of four neon colours (yellow, green, cyan, magenta),
-"No highlight", and "Custom colour…" with a colour picker. The **font colour** button does the same
+The **highlight colour** and **font colour** buttons are split buttons. A click on the coloured part
+applies the colour it shows (neon yellow and red at start, then the last colour you picked) to the
+selection at once. The small ▾ beside it opens a palette; a colour picked there is applied and becomes
+the button's colour. The highlight palette has four neon colours (yellow, green, cyan, magenta),
+"No highlight", and "Custom colour…" with a colour picker; "No highlight" and "Default colour" take the
+colour off and keep the button's colour. The **font colour** palette does the same
 with your own preset colours: edit them under "Font colours" in Settings → Editor → Editing (the
 highlight presets are there too). A new colour on text that already has one replaces it.
 

diff --git a/docs/changelog-pending/I350.md b/docs/changelog-pending/I350.md
@@ -1,0 +1,5 @@
+### Changed
+
+- **The colour buttons of the toolbar are split buttons** (#350). A click on the highlight or font
+  colour applies the colour it shows at once (neon yellow and red at start, then the last colour
+  picked); the ▾ beside it opens the palette as before. Alt+Y and Alt+F still open the palette.
